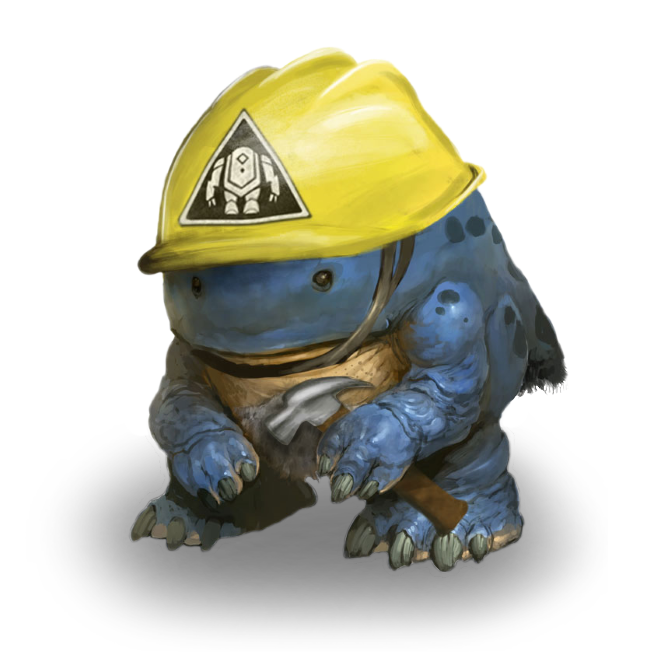
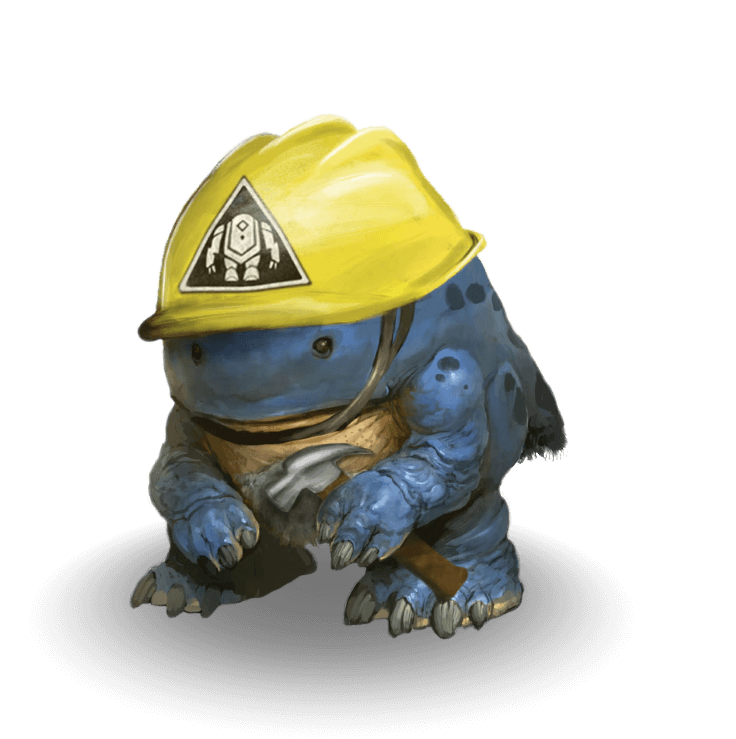
Added 404 quaggan, updated error quaggan, updated error page

diff --git a/layouts/error.vue b/layouts/error.vue
@@ -8,8 +8,18 @@
       </header>
 
       <picture>
-        <source srcset="@/assets/img/error-quaggan.webp" type="image/webp">
-        <img src="@/assets/img/error-quaggan.png" alt="">
+        <source
+          :srcset="error.statusCode===404 ?
+            require('@/assets/img/404-quaggan.webp') :
+            require('@/assets/img/error-quaggan.webp')"
+          type="image/webp"
+        >
+        <img
+          :src="error.statusCode===404 ?
+            require('@/assets/img/404-quaggan.png') :
+            require('@/assets/img/error-quaggan.png')"
+          alt=""
+        >
       </picture>
 
       <p v-if="error.statusCode!=404">
